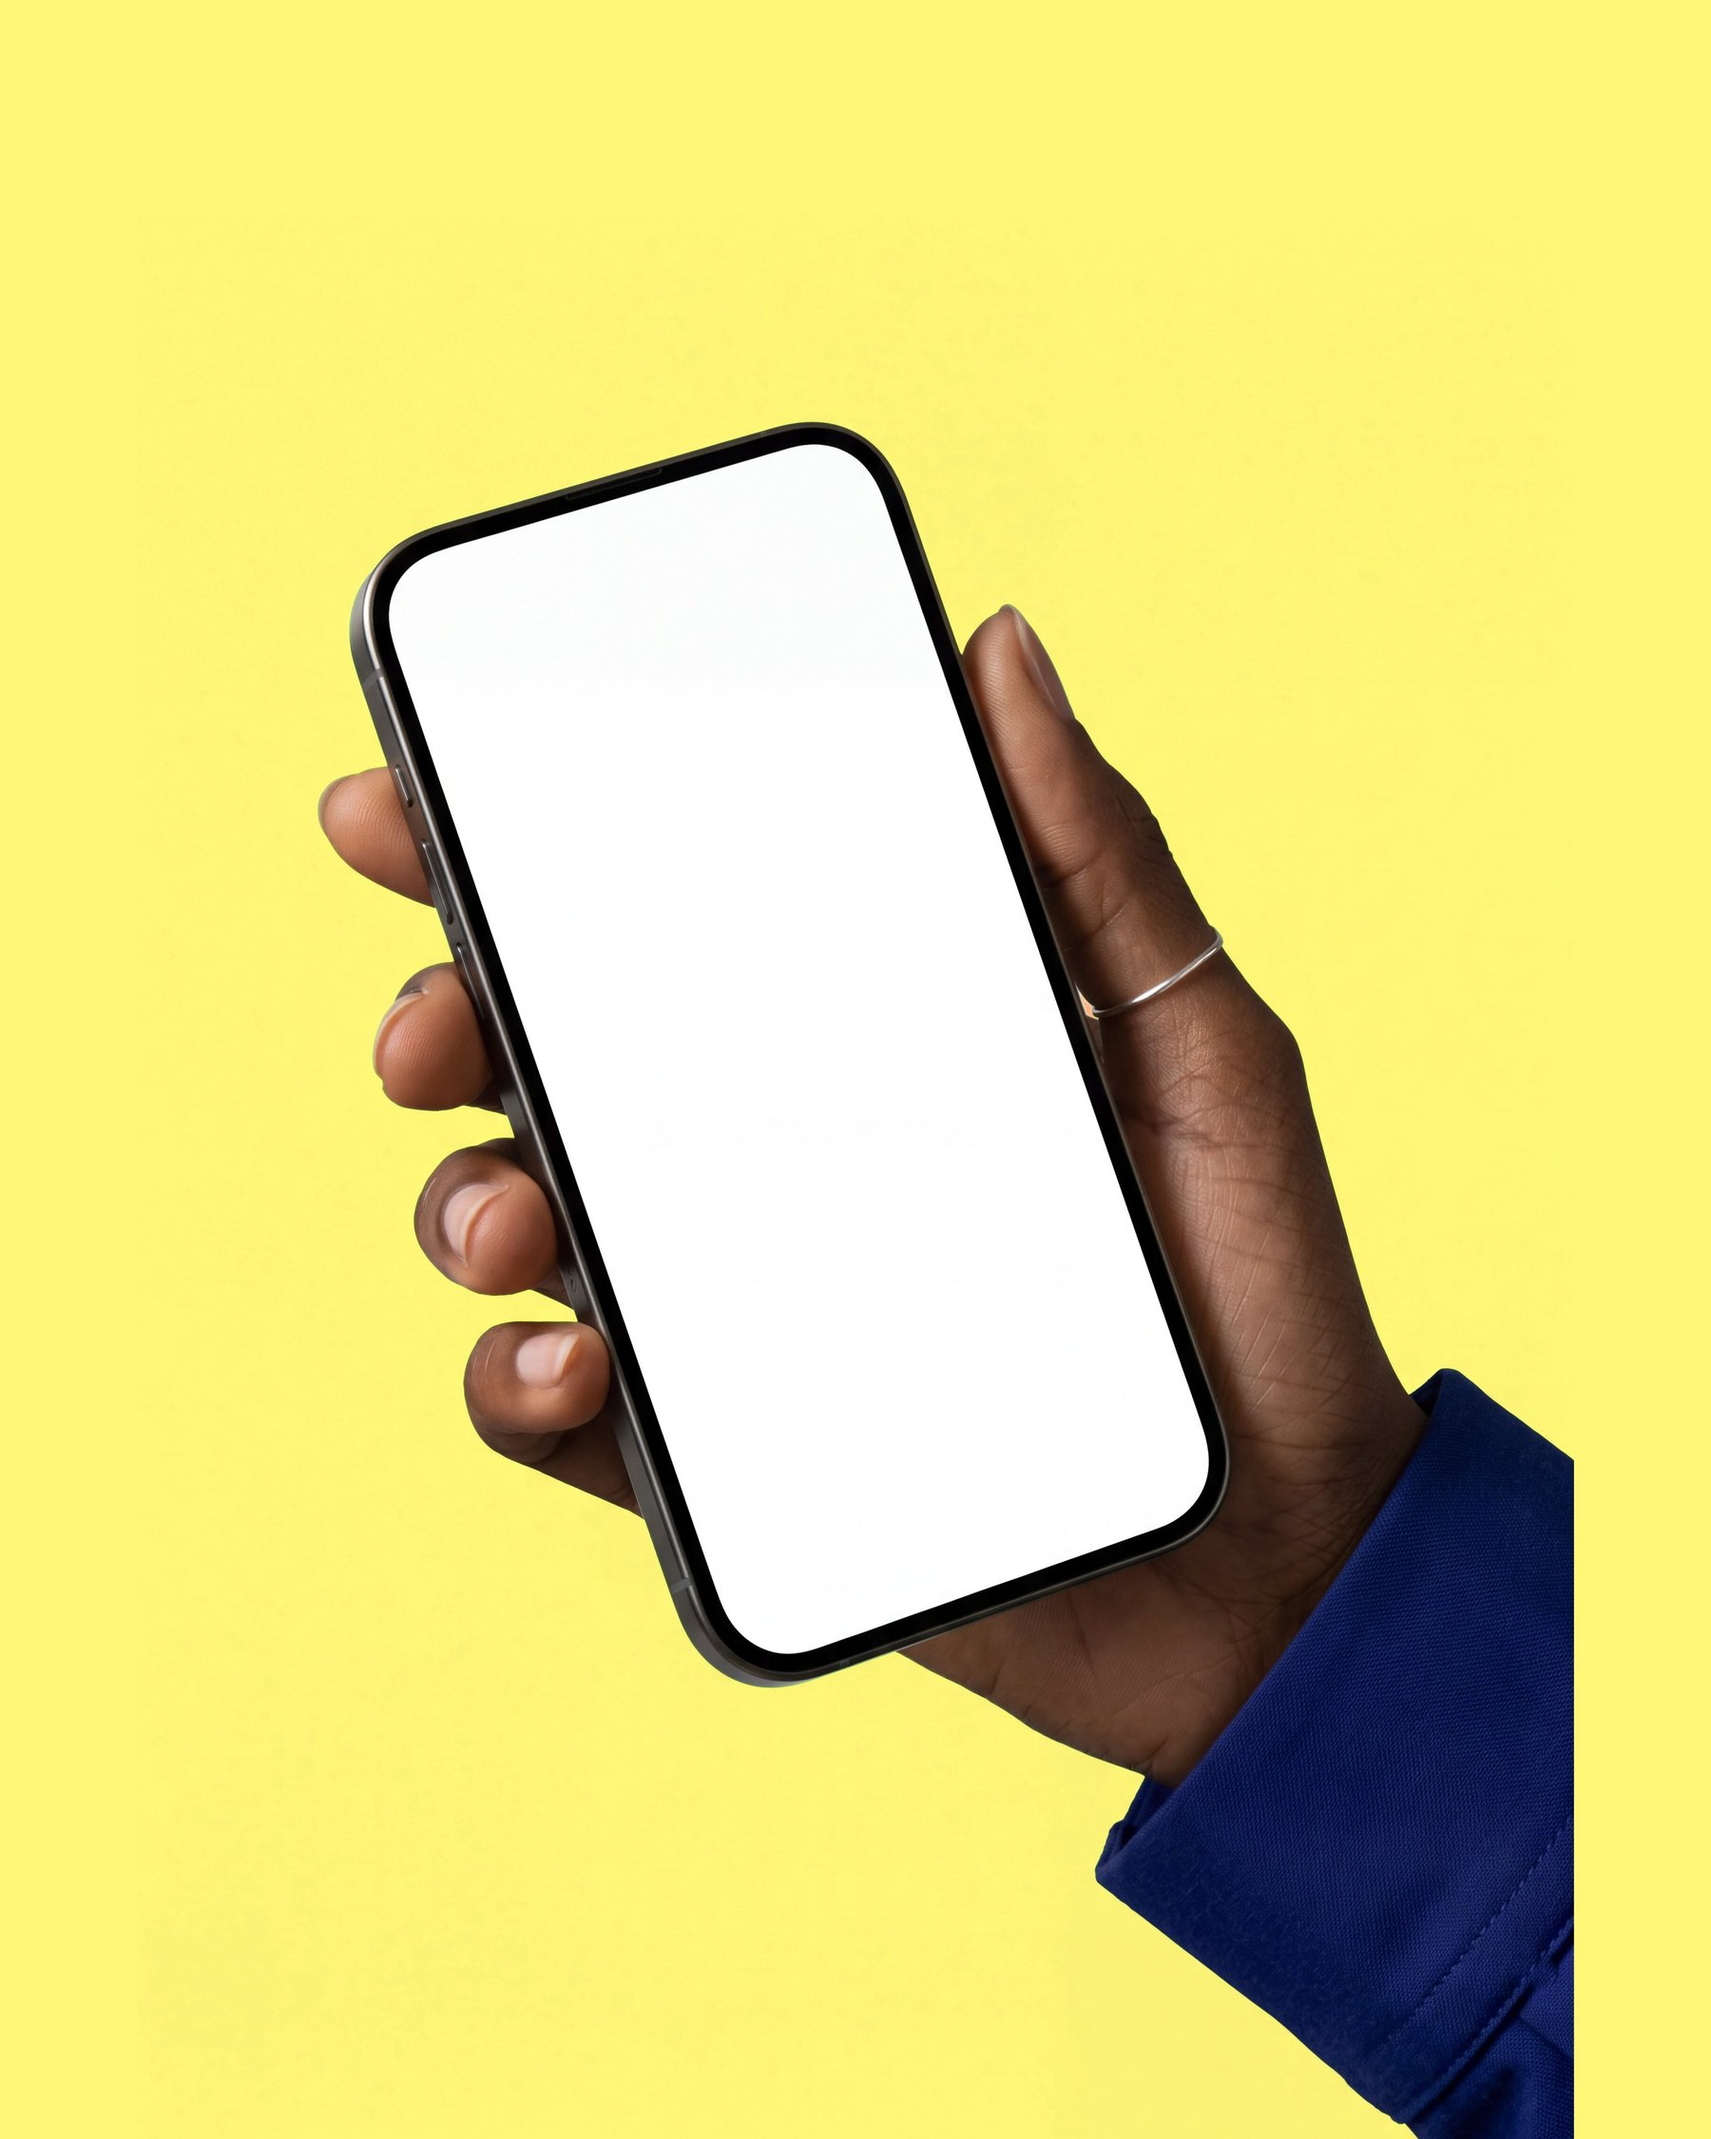
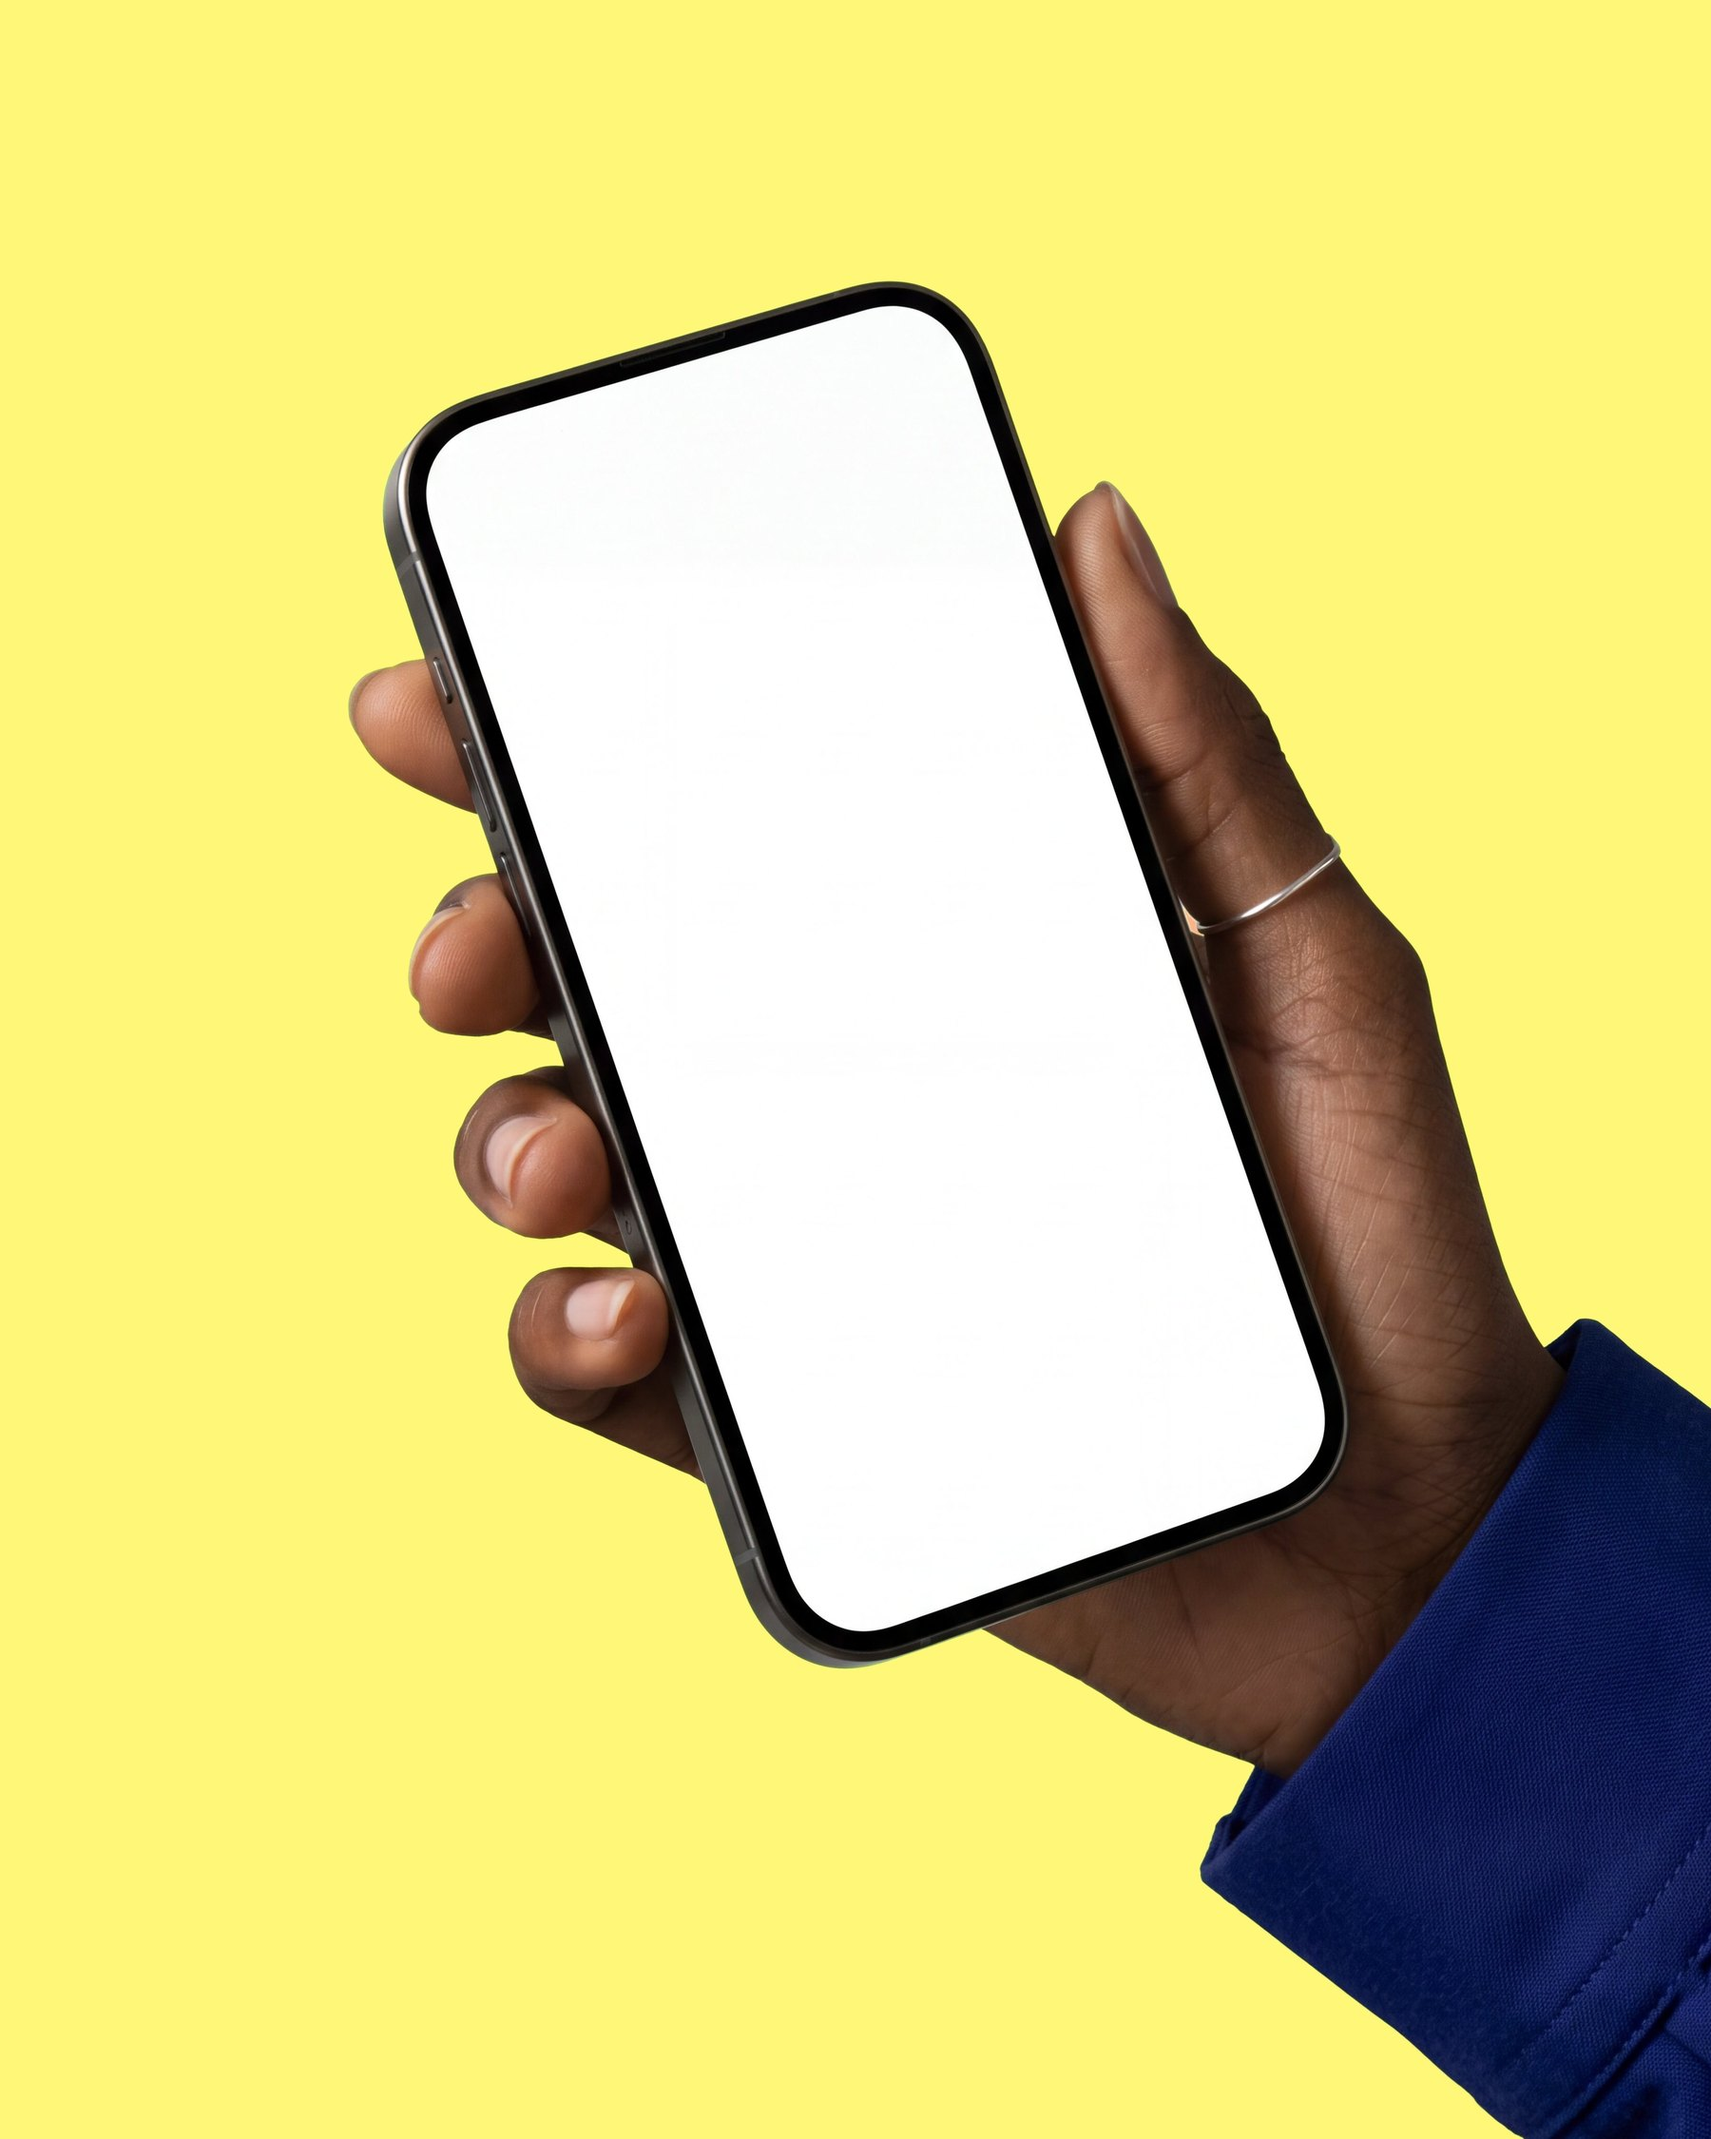
iPayBTC hand plate: uncut sleeve, flat yellow, then hard cuts to tote, cap, watch
Claude-Session: https://claude.ai/code/session_01TzKr7xup1nPHR983ZgPjWk

Changed region(s): [[0.1867, 0.1244, 1.0, 1.0]]

diff --git a/src/pages/CaseStudy.tsx b/src/pages/CaseStudy.tsx
@@ -1,10 +1,11 @@
-import { useEffect } from 'react'
+import { useEffect, useRef, useState } from 'react'
 import { Link, Navigate, useParams } from 'react-router-dom'
 import { PROJECTS } from '../data'
 import { caseStudyFor } from '../caseStudies'
 import type { CaseBlock, CaseSlot } from '../caseStudies'
 import { Contact } from '../components/Sections'
 import { ScreenOverlay } from '../components/ipaybtc/ScreenOverlay'
+import type { PhoneScreen } from '../components/ipaybtc/ScreenOverlay'
 import { Steam } from '../components/ipaybtc/Steam'
 import { IconGrid, IconTile, KeypadCard, LogoTile, Merch, WallPoster, PhoneBoard, PhonePlate, PostWall, SocialCarousel, TypePoster, TypeSwap, ZoomImg, Onboarding, TypeReel } from '../components/ipaybtc/Scenes'
 import { Chip } from '../components/refreeg/Chip'
@@ -227,7 +228,7 @@ function Plate({ slot, eager = false, inset = false, wide = false, gapAfter = fa
                   loading={eager ? 'eager' : 'lazy'}
                 />
               )}
-              {slot.screen && <ScreenOverlay screen={slot.screen} />}
+              {slot.screen && (slot.then ? <ScreenThen screen={slot.screen} then={slot.then} /> : <ScreenOverlay screen={slot.screen} />)}
               {slot.steam && <Steam spot={slot.steam} />}
               {slot.top && <img className="kora-case-top" src={slot.top} alt="" aria-hidden />}
               {slot.keypad && <KeypadCard />}
@@ -249,3 +250,55 @@ function Plate({ slot, eager = false, inset = false, wide = false, gapAfter = fa
   )
 }
 
+
+/** The live screen plays once through, then the plate cuts (no fades) to
+    each picture in turn and back to the phone, which starts over. */
+const SCREEN_MS = 9800
+const CUT_MS = 2200
+
+function ScreenThen({ screen, then }: { screen: PhoneScreen; then: Array<{ src: string; label: string }> }) {
+  const ref = useRef<HTMLDivElement>(null)
+  const [onScreen, setOnScreen] = useState(false)
+  const [i, setI] = useState(-1) // -1: the phone
+  const [round, setRound] = useState(0)
+
+  useEffect(() => {
+    const el = ref.current?.parentElement
+    if (!el) return
+    const io = new IntersectionObserver(([e]) => setOnScreen(e.isIntersecting), { threshold: 0.15 })
+    io.observe(el)
+    return () => io.disconnect()
+  }, [])
+
+  useEffect(() => {
+    if (!onScreen) return
+    const t = window.setTimeout(
+      () => {
+        if (i + 1 < then.length) setI(i + 1)
+        else {
+          setI(-1)
+          setRound((r) => r + 1)
+        }
+      },
+      i < 0 ? SCREEN_MS : CUT_MS,
+    )
+    return () => clearTimeout(t)
+  }, [onScreen, i, then.length])
+
+  return (
+    <>
+      <div ref={ref} hidden />
+      <ScreenOverlay key={round} screen={screen} />
+      {then.map((p, k) => (
+        <img
+          key={p.src}
+          className="kora-case-then"
+          src={p.src}
+          alt={k === i ? p.label : ''}
+          loading="lazy"
+          style={{ visibility: k === i ? 'visible' : 'hidden' }}
+        />
+      ))}
+    </>
+  )
+}

diff --git a/src/caseStudies.ts b/src/caseStudies.ts
@@ -20,6 +20,8 @@ import cardFull from './assets/ipaybtc-card-full.jpg'
 import hand1000 from './assets/ipaybtc-hand2-1000.jpg'
 import hand1800 from './assets/ipaybtc-hand2-1800.jpg'
 import handFull from './assets/ipaybtc-hand2-full.jpg'
+import toteImg from './assets/ipaybtc-tote-2400.jpg'
+import capImg from './assets/ipaybtc-cap-2400.jpg'
 import iconPhone1000 from './assets/ipaybtc-iconphone-1000.jpg'
 import iconPhone1800 from './assets/ipaybtc-iconphone-1800.jpg'
 import iconPhoneFull from './assets/ipaybtc-iconphone-full.jpg'
@@ -187,6 +189,8 @@ export interface CaseSlot {
     | 'ipaybtc-poster-spend'
     | 'ipaybtc-merch-reel'
     | 'ipaybtc-website'
+  /** Pictures cut to, one after another, once the live screen has played. */
+  then?: Array<{ src: string; label: string }>
   /** Frames for the merch reel, shown whole, one after another. */
   reel?: Array<{ src: string; srcSet?: string; label: string }>
   /** A cut-out of the photo laid over the live screen (fingers on the glass). */
@@ -287,10 +291,15 @@ const IPAY_HAND: CaseSlot = {
   screen: {
     flow: 'receive',
     size: [3584, 4480],
-    corners: [[774.7, 1205.5], [1798.3, 893.3], [2566.7, 3131.9], [1562.1, 3510.6]],
+    corners: [[849.1, 942.0], [1971.0, 599.9], [2813.2, 3053.4], [1712.1, 3468.5]],
     radius: 52,
     glare: 'linear-gradient(160deg, rgba(255,255,255,0.10) 0%, rgba(255,255,255,0) 40%)',
-  },
+  },  // After the payment lands: the tote, the cap, then the watch. Hard cuts.
+  then: [
+    { src: toteImg, label: 'The iPayBTC tote' },
+    { src: capImg, label: 'The iPayBTC cap' },
+    { src: fx29b, label: 'iPayBTC on the watch' },
+  ],
 }
 const plate = (label: string, ratio: string, name: [string, string]): CaseSlot => ({
   label,

diff --git a/src/App.css b/src/App.css
@@ -5206,3 +5206,8 @@
   padding-left: var(--kora-gutter);
   padding-right: var(--kora-gutter);
 }
+
+/* Pictures the hand plate cuts to after the live screen. */
+.kora-case-frame > img.kora-case-then {
+  z-index: 3;
+}
